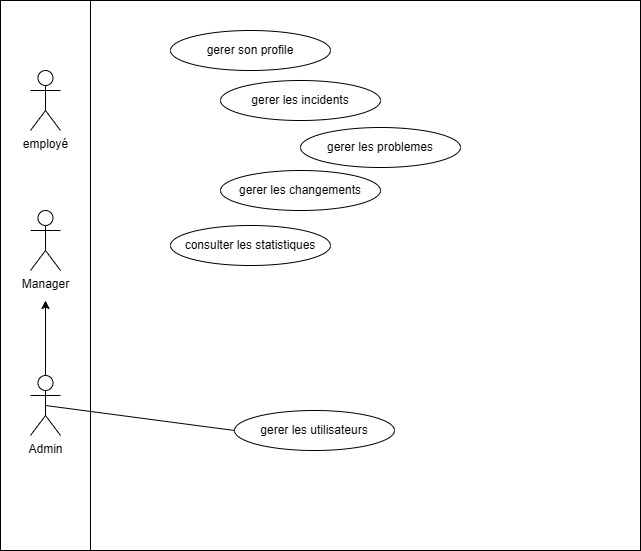
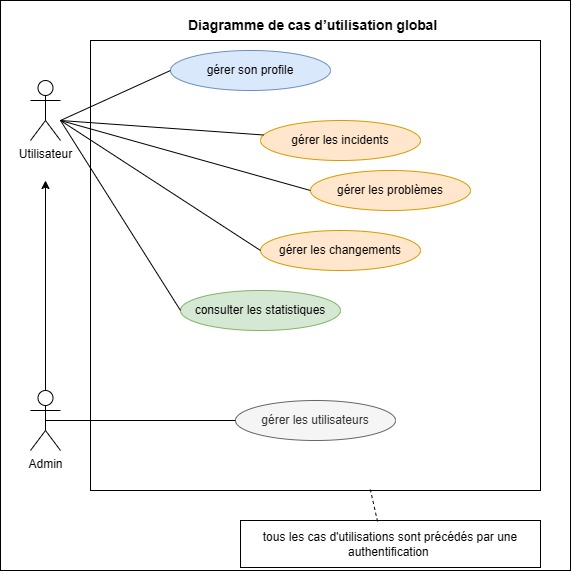
Update

diff --git a/rag-ai/query_data.py b/rag-ai/query_data.py
@@ -1,15 +1,11 @@
 import argparse
-from langchain.vectorstores.chroma import Chroma
-from langchain.prompts import ChatPromptTemplate
-from langchain_community.llms.ollama import Ollama
-
-from get_embedding_function import get_embedding_function
-
-
 import os
 
-from groq import Groq
+from langchain.vectorstores.chroma import Chroma
+from langchain.prompts import ChatPromptTemplate
 
+from get_embedding_function import get_embedding_function
+from groq import Groq
 
 CHROMA_PATH = "chroma"
 
@@ -22,16 +18,8 @@ Answer the question based only on the following context:
 
 Answer the question based on the above context: {question}
 """
-import os
+
 client = Groq(api_key=os.environ.get("GROQ_API_KEY"))
-
-client = Groq(
-    api_key=GROQ_API_KEY
-)
-
-
-
-
 
 
 def main():
@@ -45,7 +33,6 @@ def main():
 
 def query_rag(query_text: str):
     # Prepare the DB.
-
     embedding_function = get_embedding_function()
     db = Chroma(persist_directory=CHROMA_PATH, embedding_function=embedding_function)
 
@@ -53,14 +40,12 @@ def query_rag(query_text: str):
     results = db.similarity_search_with_score(query_text, k=5)
 
     context_text = "\n\n---\n\n".join([
-    doc.page_content.replace("\n", " ").strip() for doc, _ in results
+        doc.page_content.replace("\n", " ").strip() for doc, _ in results
     ])
 
     prompt_template = ChatPromptTemplate.from_template(PROMPT_TEMPLATE)
     prompt = prompt_template.format(context=context_text, question=query_text)
 
-
- 
     try:
         chat_completion = client.chat.completions.create(
             messages=[
